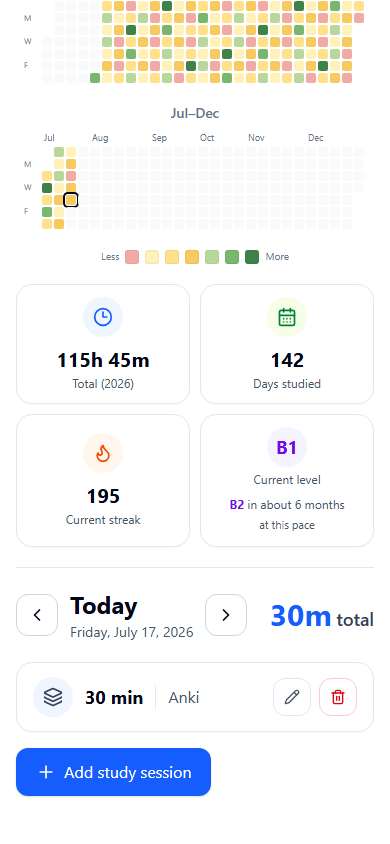
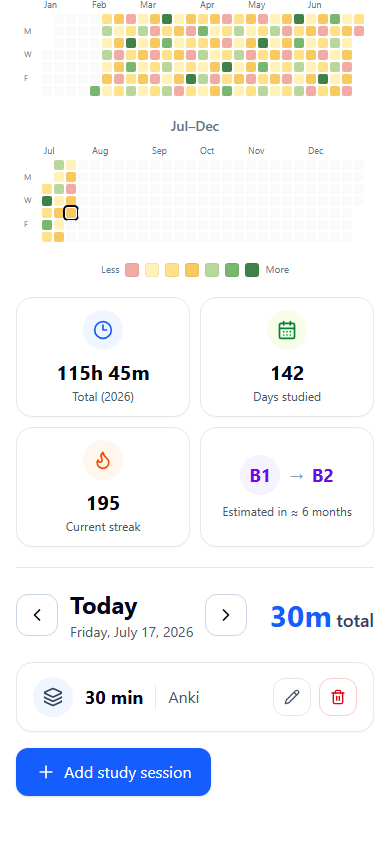
refine mobile CEFR summary

diff --git a/src/components/language-tracker-demo.tsx b/src/components/language-tracker-demo.tsx
@@ -473,8 +473,8 @@ function SummaryCards({
         value="195"
         label="Current streak"
       />
-      <article className="flex min-h-28 min-w-0 flex-col items-center justify-center gap-1 overflow-hidden rounded-2xl border border-slate-200 bg-white px-2 py-3 shadow-[0_1px_2px_rgba(15,23,42,0.03)] sm:min-h-24 sm:flex-row sm:gap-5 sm:px-5 sm:py-4">
-        <div className="text-center">
+      <article className="flex min-h-28 min-w-0 flex-col items-center justify-center overflow-hidden rounded-2xl border border-slate-200 bg-white px-2 py-3 shadow-[0_1px_2px_rgba(15,23,42,0.03)] sm:min-h-24 sm:flex-row sm:gap-5 sm:px-5 sm:py-4">
+        <div className="hidden text-center sm:block">
           <strong className="mx-auto flex h-10 w-10 items-center justify-center rounded-full bg-violet-50 text-lg font-bold text-violet-700 sm:h-12 sm:w-12 sm:text-xl">
             B1
           </strong>
@@ -486,7 +486,7 @@ function SummaryCards({
           className="hidden h-14 w-px bg-slate-200 sm:block"
           aria-hidden="true"
         />
-        <div className="min-w-0 text-center sm:text-left">
+        <div className="hidden min-w-0 text-center sm:block sm:text-left">
           <strong className="text-xs font-bold text-violet-700 sm:text-lg">
             B2{" "}
             <span className="font-normal text-slate-600">
@@ -495,6 +495,23 @@ function SummaryCards({
           </strong>
           <span className="mt-0.5 block text-[11px] text-slate-600 sm:mt-1 sm:text-sm">
             at this pace
+          </span>
+        </div>
+        <div className="text-center sm:hidden">
+          <div
+            className="flex items-center justify-center gap-2"
+            aria-label="B1 to B2"
+          >
+            <strong className="flex h-10 w-10 items-center justify-center rounded-full bg-violet-50 text-lg font-bold text-violet-700">
+              B1
+            </strong>
+            <span className="text-lg text-slate-400" aria-hidden="true">
+              →
+            </span>
+            <strong className="text-lg font-bold text-violet-700">B2</strong>
+          </div>
+          <span className="mt-2 block text-xs text-slate-600">
+            Estimated in ≈ 6 months
           </span>
         </div>
       </article>

diff --git a/docs/PRODUCT_SPEC.md b/docs/PRODUCT_SPEC.md
@@ -337,6 +337,7 @@ Vocabulary-to-CEFR word-count cutoffs will later be fixed and non-editable. Thei
 - At 1366×768 CSS pixels and 100% browser zoom, navigation, year, heatmap, primary summary, selected-day heading, and either the first entry or `Add study session` are visible without page scrolling. The fully expanded form may require scrolling.
 - The Study Time summary prioritizes selected-year total, selected-year active days, current streak with a flame treatment, and current CEFR/next-level forecast. `Top activity` is excluded from the main screen and may live only in detailed statistics.
 - When the current CEFR level appears in the primary summary, its value uses a circular badge rather than a pill or oval.
+- On mobile, the CEFR summary uses a compact two-line layout: the first line shows the current circular level badge, a directional arrow, and the next level (for example, `B1 → B2`); the second line shows the approximate forecast (for example, `Estimated in ≈ 6 months`). Desktop may retain the more descriptive current-level and pace labels.
 - Phase 1 screenshot reviews may use an isolated test-user fixture reading `Current level: B1` and `Estimated B2: in about 6 months at this pace`. This fixture must never be presented as real data to a production user and is replaced by the Phase 4 calculation.
 - The statistics destination uses an explicit `Statistics` label or an icon-and-label treatment rather than an unexplained small icon.
 - A settings area manages boards and the global activity catalog.

diff --git a/docs/IMPLEMENTATION_PLAN.md b/docs/IMPLEMENTATION_PLAN.md
@@ -51,6 +51,7 @@ Phase 0 consolidates the original technical foundation. Completed items are veri
 - At 1366×768 and 100% zoom, show navigation, year, heatmap, primary summary, selected-day heading, and either the first entry or `Add study session` without page scrolling.
 - Prioritize selected-year total, selected-year active days, and flame-treated current streak. Remove `Top activity` from the main screen. For screenshot review and the isolated test user only, use `Current level: B1` and `Estimated B2: in about 6 months at this pace`; never expose this fixture as production-user data.
 - Render the current-level value in a circular badge and give the selected-day numeric total the stronger visual treatment approved from the high-contrast concept.
+- Keep the mobile CEFR card to two lines: a `current level → next level` progress row and one concise approximate-forecast row. Retain the more descriptive labels on desktop where space permits.
 - Give the statistics destination an explicit text label or icon-and-label treatment.
 
 Before changing the application layout, prepare two static screenshot alternatives using the same content and different heatmap color treatments. The project owner selects one direction; only then implement the approved screen. After implementation, provide desktop and mobile screenshots plus a clickable local preview before continuing to Milestone 1B.

diff --git a/docs/design/phase-1/README.md b/docs/design/phase-1/README.md
@@ -21,3 +21,5 @@ The approved direction includes the soft Study Time heatmap palette, labelled tr
 - [Mobile non-today heading and empty state](milestone-1b-mobile-selected-date.png)
 
 The mobile year is split into `Jan–Jun` and `Jul–Dec`. Dates before the board's first entry remain white; missed past dates after that entry are red, while yellow and green always indicate positive study time.
+
+The compact mobile CEFR card uses two lines: `B1 → B2` and `Estimated in ≈ 6 months`. The yellow and green cells in these prototype screenshots contain synthetic positive study sessions; they never represent empty past dates. Production data follows the same invariant: empty past gaps are red only after the board's first session, while earlier empty dates, today, and future dates are white.
